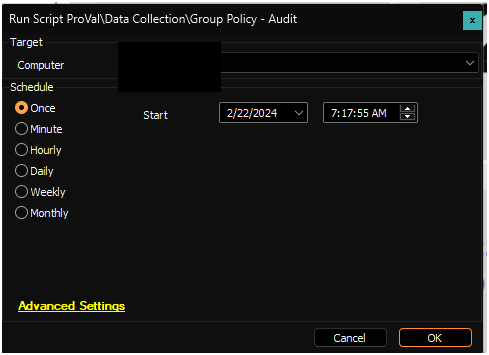
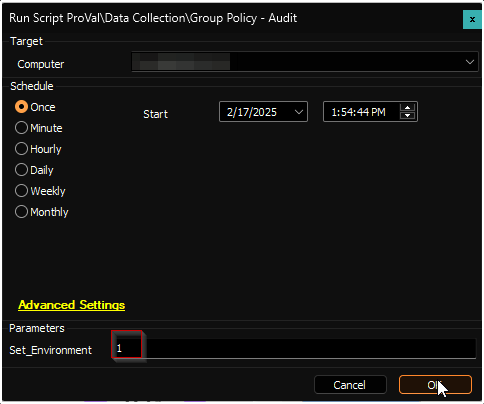
Start-GPOAudit
- Created the missing document
- Updated the related documents

diff --git a/docs/powershell/start-gpoaudit.md b/docs/powershell/start-gpoaudit.md
@@ -1,0 +1,60 @@
+---
+id: ps-show-prompt
+title: 'Show-Prompt'
+title_meta: 'Show-Prompt'
+keywords: ['prompt', 'user', 'input', 'dialog']
+description: 'Documentation for the Show-Prompt command to display a user prompt for input.'
+tags: ['windows']
+draft: false
+unlisted: false
+---
+
+## Description
+Performs an audit of the GPOs and their settings on the target domain controller.
+
+# Requirements
+- Active Directory Domain Controller
+- PowerShell v5+
+
+## Usage
+The `Start-GPOAudit.ps1` script performs an audit of Group Policy Objects (GPOs) on the target domain controller. The process involves the following steps:
+
+1. **Initialize Environment**:
+   - Set the `ProgressPreference` to 'SilentlyContinue'.
+   - Configure the security protocol to use TLS 1.2.
+   - Ensure the NuGet package provider is bootstrapped.
+   - Set the PowerShell Gallery repository installation policy to 'Trusted'.
+   - Update or install the 'Strapper' module and set the Strapper environment.
+
+2. **Define Functions**:
+   - `Get-XMLPropertyString`: Converts XML properties to a string.
+   - `Get-GPOGeneralSetting`: Retrieves general settings of a GPO.
+   - `Get-GPSettingsReport`: Retrieves detailed settings of a GPO.
+   - `Get-GPOLink`: Retrieves links of a GPO.
+   - `Get-GPOSecurityFilter`: Retrieves security filters of a GPO.
+
+3. **Audit GPOs**:
+   - Retrieve all GPOs on the target domain controller using `Get-GPO -All`.
+   - Log the number of GPOs found.
+   - Gather general settings for each GPO using `Get-GPOGeneralSetting`.
+   - Gather detailed settings for each GPO using `Get-GPSettingsReport`.
+   - Gather links for each GPO using `Get-GPOLink`.
+   - Gather security filters for each GPO using `Get-GPOSecurityFilter`.
+
+4. **Compile Results**:
+   - Compile the gathered data into a custom object containing general settings, detailed settings, links, and security filters.
+   - Return the compiled audit result object.
+
+5. **Output**:
+   - The script logs its actions and any errors to `Start-GPOAudit-Log.txt` and `Start-GPOAudit-Error.txt` respectively.
+
+
+```powershell
+.\Start-GPOAudit.ps1
+```
+Returns an object containing GPO general settings, detailed settings, links, and security filters.
+
+## Output
+Location of output for log, result, and error files.
+    .\Start-GPOAudit-Log.txt
+    .\Start-GPOAudit-Error.txt

diff --git a/docs/cwa/scripts/group-policy-audit.md b/docs/cwa/scripts/group-policy-audit.md
@@ -1,0 +1,43 @@
+---
+id: '2e5f5f2b-7c81-4aec-a76a-623a465f959a'
+title: 'Group Policy - Audit'
+title_meta: 'Group Policy - Audit'
+keywords: ['automate', 'active', 'directory', 'gpo', 'audit', 'script', 'implementation']
+description: 'This document provides an overview of the implementation of the agnostic script Start-GPOAudit within ConnectWise Automate, detailing its dependencies, sample runs, and expected output including custom tables and script logs.'
+tags: ['active-directory', 'gpo']
+draft: false
+unlisted: false
+---
+
+## Summary
+
+This document outlines the implementation of the agnostic script [Start-GPOAudit](../../powershell/start-gpoaudit.md) within ConnectWise Automate.
+
+## File Hash
+
+**File Path:** `C:/ProgramData/_Automation/script/Start-GPOAudit/Start-GPOAudit-AI.ps1`  
[1 lines of base64/hex data omitted]
+**File Hash (MD5):** `5015E570B6E18BE4747A7387BD04C91E`
+
+## Sample Run
+
+**First Execution:** Execute the script against any online Windows computer with the `Set_Environment` parameter set to `1`. This will create the following necessary tables: 
+- [plugin_proval_ad_gpo](../tables/plugin_proval_ad_gpo.md)
+- [plugin_proval_ad_gp](../tables/plugin_proval_ad_gp.md)
+- [plugin_proval_ad_gpolinks](../tables/plugin_proval_ad_gpolinks.md)
+- [plugin_proval_ad_gposf](../tables/plugin_proval_ad_gposf.md)
+
+![Image](../../../static/img/Group-Policy---Audit/image_1.png)
+
+**Regular Execution:**  
+![Image](../../../static/img/Group-Policy---Audit/image_2.png)
+
+## Dependencies
+
+- [Start-GPOAudit](../../powershell/start-gpoaudit.md)
+
+## Output
+
+- Custom Table
+- Dataview
+- Script Log

diff --git a/docs/cwa/dataviews/group-policy-object-links.md b/docs/cwa/dataviews/group-policy-object-links.md
@@ -1,7 +1,7 @@
 ---
 id: '45a9f461-fac0-4e5c-9a5f-819786e8ad21'
-title: 'Windows - Group Policy Object Links'
-title_meta: 'Windows - Group Policy Object Links'
+title: 'Group Policy Object Links'
+title_meta: 'Group Policy Object Links'
 keywords: ['gpo', 'audit', 'policy', 'link', 'dc', 'client', 'location', 'enabled', 'enforced', 'computer', 'user', 'created', 'modified', 'read']
 description: 'This document provides a comprehensive overview of the GPO Audit Dataview, detailing information about Group Policy Objects (GPOs), their applied policies, and their linkage within Active Directory environments. It outlines the dependencies required for implementation and describes the columns used to present the data effectively.'
 tags: ['active-directory', 'gpo', 'report', 'security', 'windows']
@@ -15,10 +15,9 @@ This dataview shows information about GPOs, their applied policies, and where th
 
 ## Dependencies
 
-- [Start-GPOAudit](https://proval.itglue.com/DOC-5078775-7457846)
+- [Group Policy Audit](../scripts/group-policy-audit.md)
 - [plugin_proval_ad_gpo](<../tables/plugin_proval_ad_gpo.md>)
 - [plugin_proval_ad_gpolinks](<../tables/plugin_proval_ad_gpolinks.md>)
-- [RSM - Active Directory - Script - Group Policy - Audit](<../scripts/Group Policy - Audit.md>)
 
 ## Columns
 
@@ -38,7 +37,3 @@ This dataview shows information about GPOs, their applied policies, and where th
 | Created Time    | GPO created date and time information.           |
 | Modified Time   | GPO last modified date and time.                 |
 | Read Time       | GPO last check time.                              |
-
-
-
-

diff --git a/docs/cwa/dataviews/group-policy-object-security-filtering.md b/docs/cwa/dataviews/group-policy-object-security-filtering.md
@@ -1,7 +1,7 @@
 ---
 id: '337526eb-1aa7-48a3-beab-ab66d2b7aea8'
-title: 'Windows - Group Policy Object Security Filtering'
-title_meta: 'Windows - Group Policy Object Security Filtering'
+title: 'Group Policy Object Security Filtering'
+title_meta: 'Group Policy Object Security Filtering'
 keywords: ['active-directory', 'gpo', 'security', 'audit', 'policy']
 description: 'This document provides an overview of a dataview that displays information related to Group Policy Objects (GPOs) in Active Directory, focusing on security policies. It outlines dependencies, columns, and details necessary for auditing GPOs effectively.'
 tags: ['active-directory', 'gpo', 'security']
@@ -15,13 +15,10 @@ This dataview displays information related to Group Policy Objects in Active Dir
 
 ## Dependencies
 
-**Custom tables**  
+- [Group Policy Audit](../scripts/group-policy-audit.md)
 - [plugin_proval_ad_gpo](<../tables/plugin_proval_ad_gpo.md>)  
 - [plugin_proval_ad_gposf](<../tables/plugin_proval_ad_gposf.md>)  
 
-**Script**  
-- [RSM - Active Directory - Script - Group Policy - Audit](<../scripts/Group Policy - Audit.md>)  
-- [Start-GPOAudit](https://proval.itglue.com/DOC-5078775-7457846)  
 
 ## Columns
 

diff --git a/docs/cwa/dataviews/group-policy-settings.md b/docs/cwa/dataviews/group-policy-settings.md
@@ -1,7 +1,7 @@
 ---
 id: 'ea24f672-d2cd-41bc-8b62-2dcd20085d29'
-title: 'Windows - Group Policy Settings'
-title_meta: 'Windows - Group Policy Settings'
+title: 'Group Policy Settings'
+title_meta: 'Group Policy Settings'
 keywords: ['gpo', 'audit', 'policy', 'settings', 'active-directory']
 description: 'This document provides a comprehensive overview of the GPO Audit Dataview, detailing the information about Group Policy Objects (GPOs), their applied policies, and settings. It includes dependencies and a breakdown of the data columns for better understanding and utilization.'
 tags: ['active-directory', 'gpo']
@@ -15,10 +15,9 @@ This dataview shows information about GPOs, their applied policies, and settings
 
 ## Dependencies
 
-- [Start-GPOAudit](https://proval.itglue.com/DOC-5078775-7457846)
+- [Group Policy Audit](../scripts/group-policy-audit.md)
 - [plugin_proval_ad_gp](<../tables/plugin_proval_ad_gp.md>)
 - [plugin_proval_ad_gpo](<../tables/plugin_proval_ad_gpo.md>)
-- [RSM - Active Directory - Script - Group Policy - Audit](<../scripts/Group Policy - Audit.md>)
 
 ## Columns
 

diff --git a/docs/cwa/dataviews/group-policy-objects.md b/docs/cwa/dataviews/group-policy-objects.md
@@ -1,7 +1,7 @@
 ---
 id: '1da4d5e9-4168-4c21-94cf-9b52fc565bf7'
-title: 'Windows - Group Policy Objects'
-title_meta: 'Windows - Group Policy Objects'
+title: 'Group Policy Objects'
+title_meta: 'Group Policy Objects'
 keywords: ['gpo', 'audit', 'policy', 'trustee', 'linked', 'information', 'output']
 description: 'This document provides an overview of a dataview that displays information about Group Policy Objects (GPOs), including their applied policies, linkage locations, and trustees. It also outlines the dependencies required for the dataview to function and details the columns included in the output.'
 tags: ['active-directory', 'report', 'windows']
@@ -15,9 +15,8 @@ This dataview shows information about GPOs, their applied policies, where they a
 
 ## Dependencies
 
-- [Start-GPOAudit](https://proval.itglue.com/DOC-5078775-7457846)
+- [Group Policy Audit](../scripts/group-policy-audit.md)
 - [plugin_proval_ad_gpo](<../tables/plugin_proval_ad_gpo.md>)
-- [RSM - Active Directory - Script - Group Policy - Audit](<../scripts/Group Policy - Audit.md>)
 
 ## Columns
 

diff --git a/docs/cwa/tables/plugin_proval_ad_gpo.md b/docs/cwa/tables/plugin_proval_ad_gpo.md
@@ -15,8 +15,7 @@ This document displays the list of audited group policy objects from the script 
 
 ## Dependencies
 
-- [RSM - Active Directory - Script - Group Policy - Audit](<../scripts/Group Policy - Audit.md>)
-- [Start-GPOAudit](https://proval.itglue.com/DOC-5078775-7457846)
+- [Group Policy Audit](../scripts/group-policy-audit.md)
 
 ## Table
 

diff --git a/docs/cwa/tables/plugin_proval_ad_gp.md b/docs/cwa/tables/plugin_proval_ad_gp.md
@@ -15,8 +15,7 @@ This document displays the list of audited group policies from the script @Group
 
 ## Dependencies
 
-- @Group Policy Audit  
-- [Start-GPOAudit](https://proval.itglue.com/DOC-5078775-7457846)  
+- [Group Policy Audit](../scripts/group-policy-audit.md)
 
 ## Table
 

diff --git a/docs/cwa/tables/plugin_proval_ad_gpolinks.md b/docs/cwa/tables/plugin_proval_ad_gpolinks.md
@@ -15,8 +15,7 @@ This document displays detailed information about the GPO links per GPO from the
 
 ## Dependencies
 
-- @Group Policy Audit  
-- [Start-GPOAudit](https://proval.itglue.com/DOC-5078775-7457846)  
+- [Group Policy Audit](../scripts/group-policy-audit.md)
 
 ## Table
 

diff --git a/docs/cwa/tables/plugin_proval_ad_gposf.md b/docs/cwa/tables/plugin_proval_ad_gposf.md
@@ -15,8 +15,7 @@ This document displays detailed information about the GPO security filtering of 
 
 ## Dependencies
 
-- @Group Policy Audit
-- [Start-GPOAudit](https://proval.itglue.com/DOC-5078775-7457846)
+- [Group Policy Audit](../scripts/group-policy-audit.md)
 
 ## Table
 
